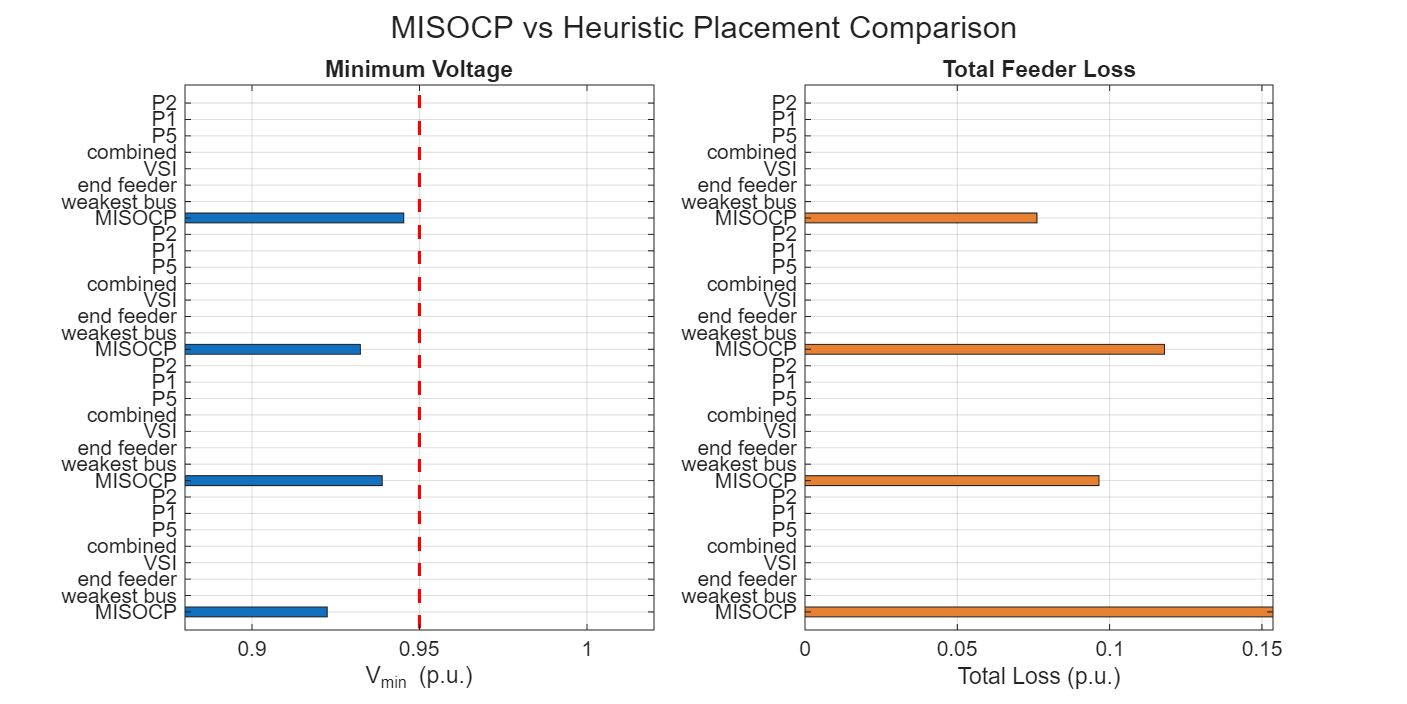
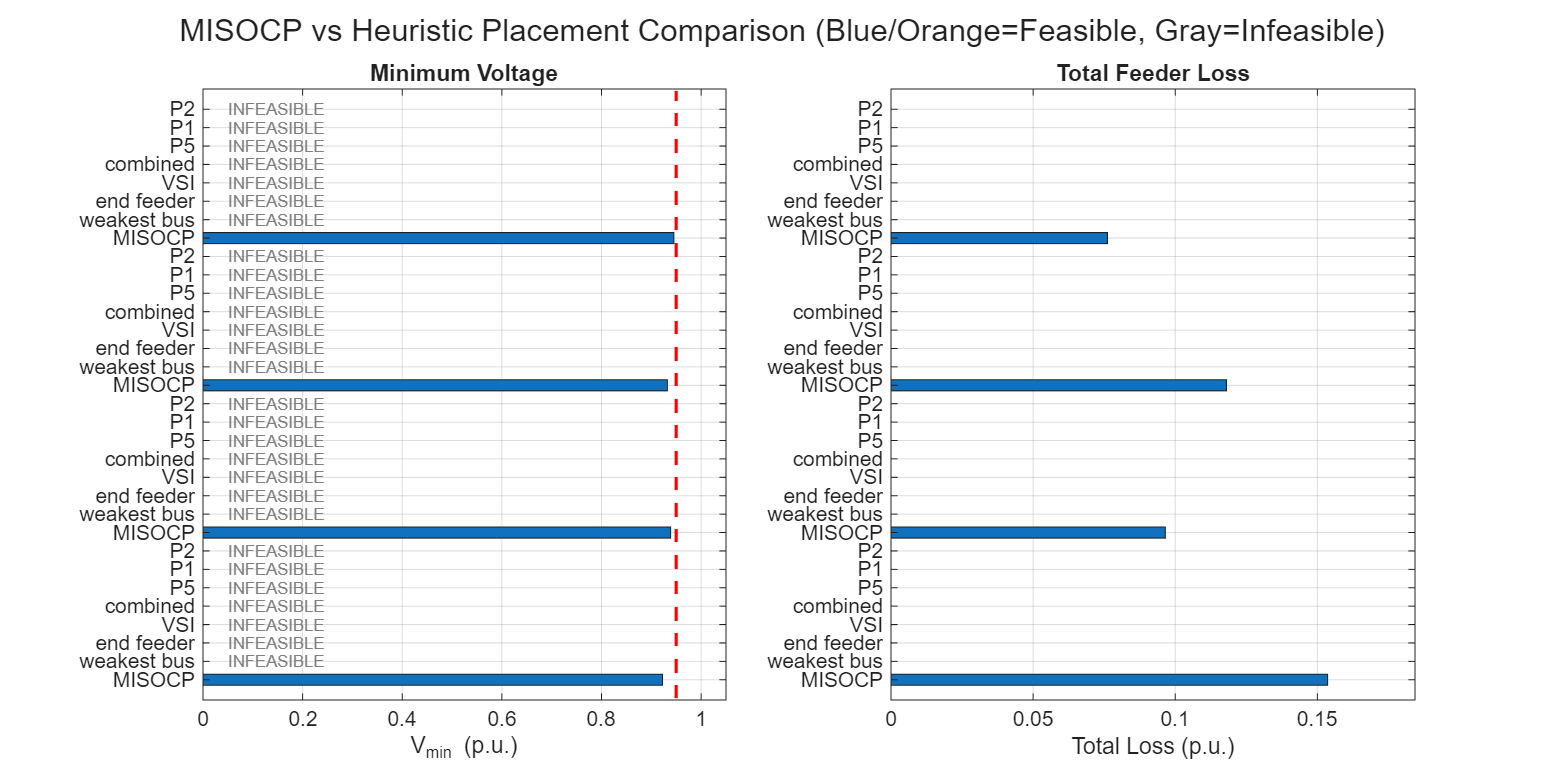
fix MISOCP heuristic comparison figure
Enhanced plot_misocp_vs_heuristics.m to properly handle infeasible
solutions (NaN values) by color-coding bars (blue/orange=feasible,
gray=infeasible) and adding text labels. Comparison table shows only
MISOCP solutions feasible when heuristics use full N=32 placement.
Figure now clearly distinguishes methods and feasibility status.

diff --git a/03_es_feasibility_framework/plotting/plot_misocp_vs_heuristics.m b/03_es_feasibility_framework/plotting/plot_misocp_vs_heuristics.m
@@ -1,31 +1,61 @@
 function plot_misocp_vs_heuristics(comparison_table, fig_path)
 %PLOT_MISOCP_VS_HEURISTICS  Bar chart comparing MISOCP vs heuristics.
+%   Shows feasible solutions clearly, marks infeasible as gray.
 
 methods  = comparison_table.Method;
 vmin_v   = comparison_table.Vmin_pu;
 loss_v   = comparison_table.TotalLoss_pu;
 feasible = comparison_table.Feasible;
 
-fh = figure('Visible','off','Position',[100 100 900 450]);
+% Replace NaN (infeasible) with 0 for plotting, track feasibility
+vmin_plot = vmin_v;
+loss_plot = loss_v;
+vmin_plot(isnan(vmin_v)) = 0;
+loss_plot(isnan(loss_v)) = 0;
+
+fh = figure('Visible','off','Position',[100 100 1000 500]);
 ax1 = subplot(1,2,1);
-barh(1:numel(methods), vmin_v, 0.6);
+b1 = barh(1:numel(methods), vmin_plot, 0.6);
+% Color by feasibility
+for i = 1:numel(methods)
+    if feasible(i) == 1
+        b1(1).CData(i,:) = [0.2 0.6 0.9];  % blue for feasible
+    else
+        b1(1).CData(i,:) = [0.7 0.7 0.7];  % gray for infeasible
+    end
+end
 hold on;
-plot([0.95 0.95],[0 numel(methods)+1],'--r','LineWidth',1.5);
+plot([0.95 0.95],[0 numel(methods)+1],'--r','LineWidth',1.5,'DisplayName','Limit');
+% Add text annotations for infeasible
+for i = 1:numel(methods)
+    if feasible(i) ~= 1
+        text(0.05, i, 'INFEASIBLE', 'FontSize',8, 'Color',[0.5 0.5 0.5]);
+    end
+end
 set(ax1,'YTick',1:numel(methods),'YTickLabel',strrep(methods,'_',' '));
 xlabel('V_{min} (p.u.)'); title('Minimum Voltage');
-xlim([0.88 1.02]); grid on;
+xlim([0 1.05]); grid on;
 
 ax2 = subplot(1,2,2);
-barh(1:numel(methods), loss_v, 0.6, 'FaceColor',[0.9 0.5 0.2]);
+b2 = barh(1:numel(methods), loss_plot, 0.6);
+% Color by feasibility
+for i = 1:numel(methods)
+    if feasible(i) == 1
+        b2(1).CData(i,:) = [0.9 0.5 0.2];  % orange for feasible
+    else
+        b2(1).CData(i,:) = [0.7 0.7 0.7];  % gray for infeasible
+    end
+end
 set(ax2,'YTick',1:numel(methods),'YTickLabel',strrep(methods,'_',' '));
 xlabel('Total Loss (p.u.)'); title('Total Feeder Loss');
-grid on;
+grid on; xlim([0 max(loss_plot)*1.2]);
 
-sgtitle('MISOCP vs Heuristic Placement Comparison');
+sgtitle('MISOCP vs Heuristic Placement Comparison (Blue/Orange=Feasible, Gray=Infeasible)');
 
 if nargin >= 2 && ~isempty(fig_path)
     saveas(fh, fig_path);
     [d,n,~]=fileparts(fig_path); saveas(fh,fullfile(d,[n '.fig']));
+    fprintf('  Saved: %s\n', fig_path);
 end
 close(fh);
 end
